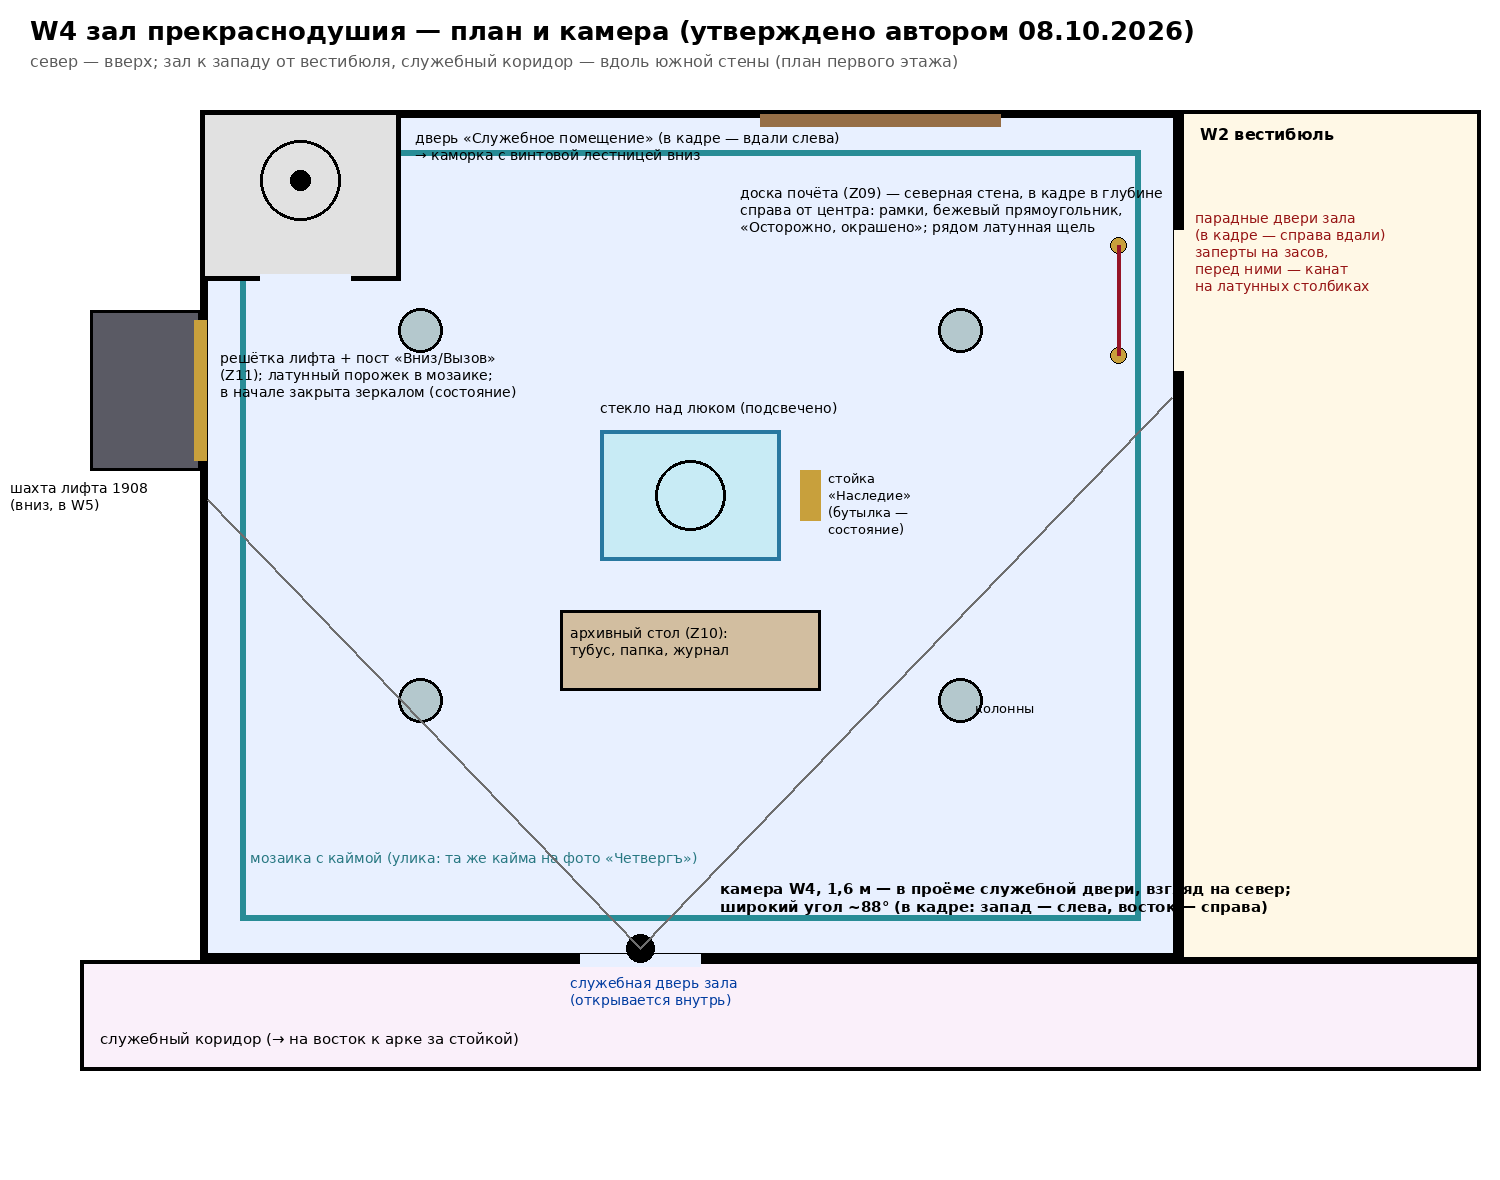
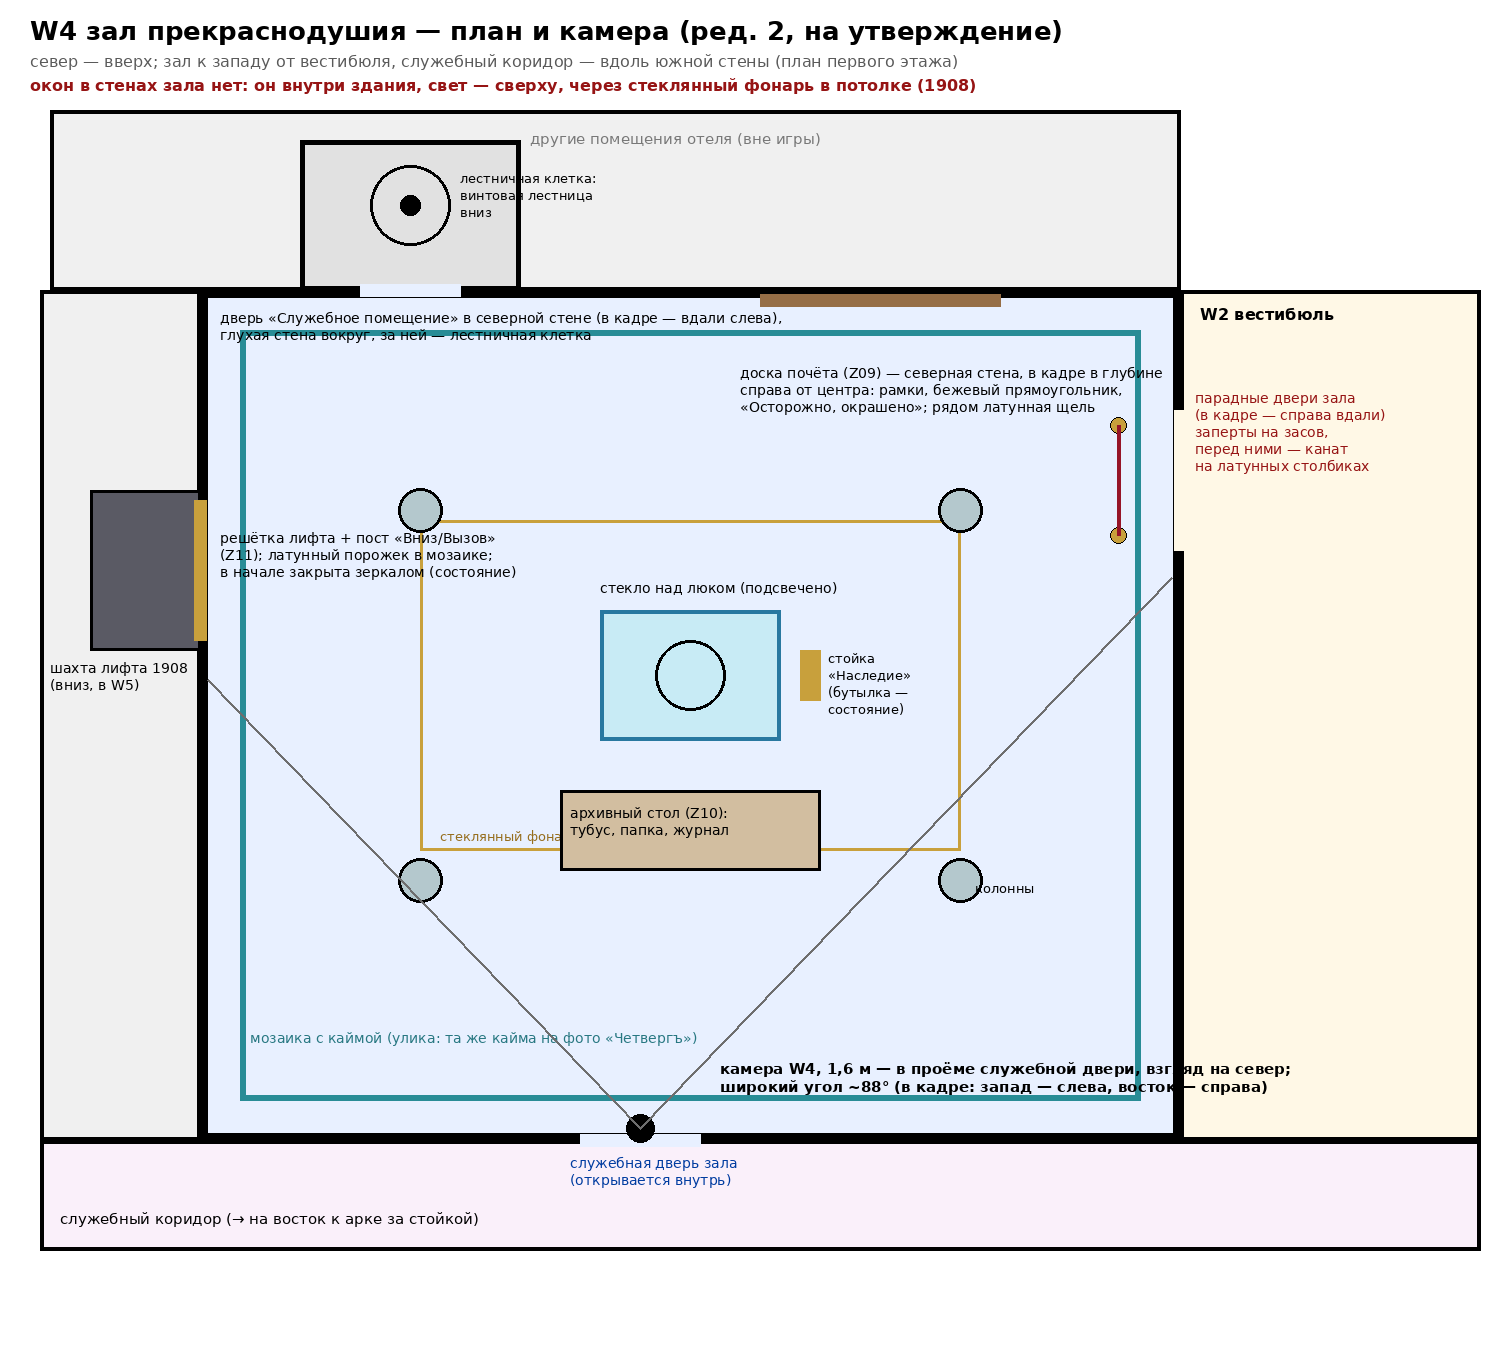
W4: план ред. 2 — без окон в стенах, лестничная клетка за северной стеной
Claude-Session: https://claude.ai/code/session_01Bbq6Feu1G5NepL2mZVzLSv

diff --git a/tools/layout/room_w4_plan.py b/tools/layout/room_w4_plan.py
@@ -1,65 +1,76 @@
 #!/usr/bin/env python3
-"""План зала прекраснодушия W4 с камерой (утверждён автором 08.10.2026). Вывод: docs/assets/w4_plan.png"""
+"""План зала прекраснодушия W4 с камерой (ред. 2: без окон в стенах, лестница за северной стеной). Вывод: docs/assets/w4_plan.png"""
+import math
 from pathlib import Path
 from PIL import Image, ImageDraw, ImageFont
 ROOT = Path(__file__).resolve().parents[2]
 R = lambda n: ImageFont.truetype('/usr/share/fonts/truetype/dejavu/DejaVuSans.ttf', n)
 B = lambda n: ImageFont.truetype('/usr/share/fonts/truetype/dejavu/DejaVuSans-Bold.ttf', n)
-im = Image.new('RGB', (1500, 1180), 'white'); d = ImageDraw.Draw(im)
-d.text((30, 15), "W4 зал прекраснодушия — план и камера (утверждено автором 08.10.2026)", fill='black', font=B(26))
+im = Image.new('RGB', (1500, 1360), 'white'); d = ImageDraw.Draw(im)
+d.text((30, 15), "W4 зал прекраснодушия — план и камера (ред. 2, на утверждение)", fill='black', font=B(26))
 d.text((30, 52), "север — вверх; зал к западу от вестибюля, служебный коридор — вдоль южной стены (план первого этажа)", fill=(90, 90, 90), font=R(16))
+d.text((30, 76), "окон в стенах зала нет: он внутри здания, свет — сверху, через стеклянный фонарь в потолке (1908)", fill=(150, 20, 20), font=B(16))
+OY = 180
+X0, Y0, X1, Y1 = 200, 110 + OY, 1180, 960 + OY
+# помещения отеля за северной и западной стенами (вне игры)
+d.rectangle((X0 - 150, 110, X1, Y0), fill=(240, 240, 240), outline='black', width=4)
+d.text((X0 + 330, 130), "другие помещения отеля (вне игры)", fill=(120, 120, 120), font=R(15))
+d.rectangle((40, Y0, X0, Y1), fill=(240, 240, 240), outline='black', width=4)
 # зал
-X0, Y0, X1, Y1 = 200, 110, 1180, 960
 d.rectangle((X0, Y0, X1, Y1), fill=(232, 240, 255), outline='black', width=8)
+# фонарь верхнего света
+d.rectangle((420, Y0 + 230, 960, Y0 + 560), outline=(200, 160, 60), width=3)
+d.text((440, Y0 + 538), "стеклянный фонарь в потолке (над серединой зала)", fill=(150, 110, 30), font=R(13))
 # кайма мозаики
 d.rectangle((X0 + 40, Y0 + 40, X1 - 40, Y1 - 40), outline=(40, 140, 150), width=6)
 d.text((X0 + 50, Y1 - 110), "мозаика с каймой (улика: та же кайма на фото «Четвергъ»)", fill=(40, 120, 130), font=R(14))
 # вестибюль и коридор
 d.rectangle((X1, Y0, 1480, Y1), fill=(255, 248, 230), outline='black', width=4)
 d.text((X1 + 20, Y0 + 15), "W2 вестибюль", fill='black', font=B(16))
-d.rectangle((X0 - 120, Y1, X1 + 300, Y1 + 110), fill=(250, 240, 250), outline='black', width=4)
-d.text((X0 - 100, Y1 + 70), "служебный коридор (→ на восток к арке за стойкой)", fill='black', font=R(15))
+d.rectangle((X0 - 160, Y1, X1 + 300, Y1 + 110), fill=(250, 240, 250), outline='black', width=4)
+d.text((X0 - 140, Y1 + 70), "служебный коридор (→ на восток к арке за стойкой)", fill='black', font=R(15))
 # парадные двери — восточная стена, северная часть
-d.rectangle((X1 - 6, 230, X1 + 6, 370), fill=(255, 248, 230))
-d.text((X1 + 15, 210), "парадные двери зала\n(в кадре — справа вдали)\nзаперты на засов,\nперед ними — канат\nна латунных столбиках", fill=(150, 20, 20), font=R(14))
-for y in (245, 355):
+d.rectangle((X1 - 6, 230 + OY, X1 + 6, 370 + OY), fill=(255, 248, 230))
+d.text((X1 + 15, 210 + OY), "парадные двери зала\n(в кадре — справа вдали)\nзаперты на засов,\nперед ними — канат\nна латунных столбиках", fill=(150, 20, 20), font=R(14))
+for y in (245 + OY, 355 + OY):
     d.ellipse((X1 - 70, y - 8, X1 - 54, y + 8), fill=(200, 160, 60), outline='black')
-d.line((X1 - 62, 245, X1 - 62, 355), fill=(150, 20, 40), width=4)
-# доска почёта и латунная щель — восточная стена ближе к камере
+d.line((X1 - 62, 245 + OY, X1 - 62, 355 + OY), fill=(150, 20, 40), width=4)
+# доска почёта — северная стена, правее центра
 d.rectangle((760, Y0 + 4, 1000, Y0 + 16), fill=(150, 110, 70))
 d.text((740, Y0 + 75), "доска почёта (Z09) — северная стена, в кадре в глубине\nсправа от центра: рамки, бежевый прямоугольник,\n«Осторожно, окрашено»; рядом латунная щель", fill='black', font=R(14))
-# служебная дверь — южная стена, западная треть (как на плане этажа)
+# служебная дверь — южная стена (как на плане этажа)
 DX0, DX1 = 580, 700
 d.rectangle((DX0, Y1 - 6, DX1, Y1 + 6), fill=(232, 240, 255))
 d.text((DX0 - 10, Y1 + 15), "служебная дверь зала\n(открывается внутрь)", fill=(0, 60, 160), font=R(14))
-# лифт 1908 — западная стена, середина
-d.rectangle((X0 - 110, 310, X0, 470), fill=(90, 90, 100), outline='black', width=3)
-d.rectangle((X0 - 6, 320, X0 + 6, 460), fill=(200, 160, 60))
-d.text((X0 - 190, 480), "шахта лифта 1908\n(вниз, в W5)", fill='black', font=R(14))
-d.text((X0 + 20, 350), "решётка лифта + пост «Вниз/Вызов»\n(Z11); латунный порожек в мозаике;\nв начале закрыта зеркалом (состояние)", fill='black', font=R(14))
-# лестничная каморка — северо-западный угол, дверь в северной части
-d.rectangle((X0, Y0, X0 + 200, Y0 + 170), fill=(225, 225, 225), outline='black', width=5)
-d.rectangle((X0 + 60, Y0 + 164, X0 + 150, Y0 + 176), fill=(232, 240, 255))
-d.ellipse((X0 + 60, Y0 + 30, X0 + 140, Y0 + 110), outline='black', width=3)
-d.ellipse((X0 + 90, Y0 + 60, X0 + 110, Y0 + 80), fill='black')
-d.text((X0 + 215, Y0 + 20), "дверь «Служебное помещение» (в кадре — вдали слева)\n→ каморка с винтовой лестницей вниз", fill='black', font=R(14))
+# лифт 1908 — западная стена
+d.rectangle((X0 - 110, 310 + OY, X0, 470 + OY), fill=(90, 90, 100), outline='black', width=3)
+d.rectangle((X0 - 6, 320 + OY, X0 + 6, 460 + OY), fill=(200, 160, 60))
+d.text((50, 480 + OY), "шахта лифта 1908\n(вниз, в W5)", fill='black', font=R(14))
+d.text((X0 + 20, 350 + OY), "решётка лифта + пост «Вниз/Вызов»\n(Z11); латунный порожек в мозаике;\nв начале закрыта зеркалом (состояние)", fill='black', font=R(14))
+# лестничная клетка — за северной стеной, дверь в северной стене (левая часть)
+SX0, SX1 = 300, 520
+d.rectangle((SX0, Y0 - 150, SX1, Y0), fill=(225, 225, 225), outline='black', width=5)
+d.ellipse((SX0 + 70, Y0 - 125, SX0 + 150, Y0 - 45), outline='black', width=3)
+d.ellipse((SX0 + 100, Y0 - 95, SX0 + 120, Y0 - 75), fill='black')
+d.text((SX0 + 160, Y0 - 120), "лестничная клетка:\nвинтовая лестница\nвниз", fill='black', font=R(13))
+d.rectangle((SX0 + 60, Y0 - 6, SX0 + 160, Y0 + 6), fill=(232, 240, 255))
+d.text((X0 + 20, Y0 + 20), "дверь «Служебное помещение» в северной стене (в кадре — вдали слева),\nглухая стена вокруг, за ней — лестничная клетка", fill='black', font=R(14))
 # колонны
 for cx in (420, 960):
-    for cy in (330, 700):
+    for cy in (330 + OY, 700 + OY):
         d.ellipse((cx - 22, cy - 22, cx + 22, cy + 22), fill=(180, 200, 205), outline='black', width=3)
-d.text((975, 700), "колонны", fill='black', font=R(13))
+d.text((975, 700 + OY), "колонны", fill='black', font=R(13))
 # стекло над люком и стойка, архивный стол
-d.rectangle((600, 430, 780, 560), fill=(200, 235, 245), outline=(40, 120, 160), width=4)
-d.ellipse((655, 460, 725, 530), outline='black', width=3)
-d.text((600, 400), "стекло над люком (подсвечено)", fill='black', font=R(14))
-d.rectangle((800, 470, 820, 520), fill=(200, 160, 60)); d.text((828, 470), "стойка\n«Наследие»\n(бутылка —\nсостояние)", fill='black', font=R(13))
-d.rectangle((560, 610, 820, 690), fill=(210, 190, 160), outline='black', width=3)
-d.text((570, 625), "архивный стол (Z10):\nтубус, папка, журнал", fill='black', font=R(14))
+d.rectangle((600, 430 + OY, 780, 560 + OY), fill=(200, 235, 245), outline=(40, 120, 160), width=4)
+d.ellipse((655, 460 + OY, 725, 530 + OY), outline='black', width=3)
+d.text((600, 400 + OY), "стекло над люком (подсвечено)", fill='black', font=R(14))
+d.rectangle((800, 470 + OY, 820, 520 + OY), fill=(200, 160, 60)); d.text((828, 470 + OY), "стойка\n«Наследие»\n(бутылка —\nсостояние)", fill='black', font=R(13))
+d.rectangle((560, 610 + OY, 820, 690 + OY), fill=(210, 190, 160), outline='black', width=3)
+d.text((570, 625 + OY), "архивный стол (Z10):\nтубус, папка, журнал", fill='black', font=R(14))
 # камера
-cx, cy = 640, 948
+cx, cy = 640, 948 + OY
 d.ellipse((cx - 14, cy - 14, cx + 14, cy + 14), fill='black')
-d.multiline_text((720, 880), "камера W4, 1,6 м — в проёме служебной двери, взгляд на север;\nширокий угол ~88° (в кадре: запад — слева, восток — справа)", fill='black', font=B(15))
-import math
+d.multiline_text((720, 880 + OY), "камера W4, 1,6 м — в проёме служебной двери, взгляд на север;\nширокий угол ~88° (в кадре: запад — слева, восток — справа)", fill='black', font=B(15))
 for ang in (-44, 44):
     a = math.radians(ang); dx, dy = math.sin(a), -math.cos(a)
     t = min(((X0 + 8 - cx) / dx) if dx < 0 else ((X1 - 8 - cx) / dx), (Y0 + 8 - cy) / dy)
